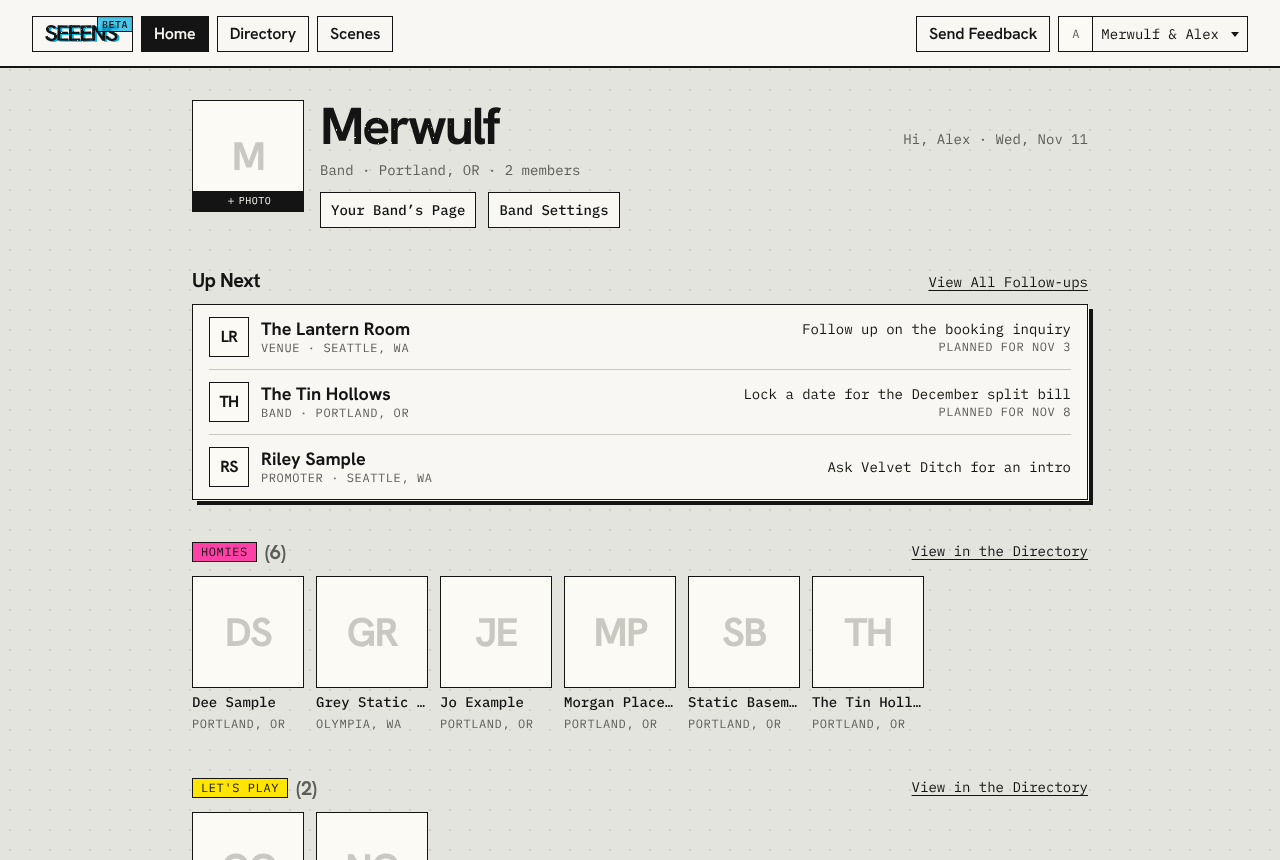
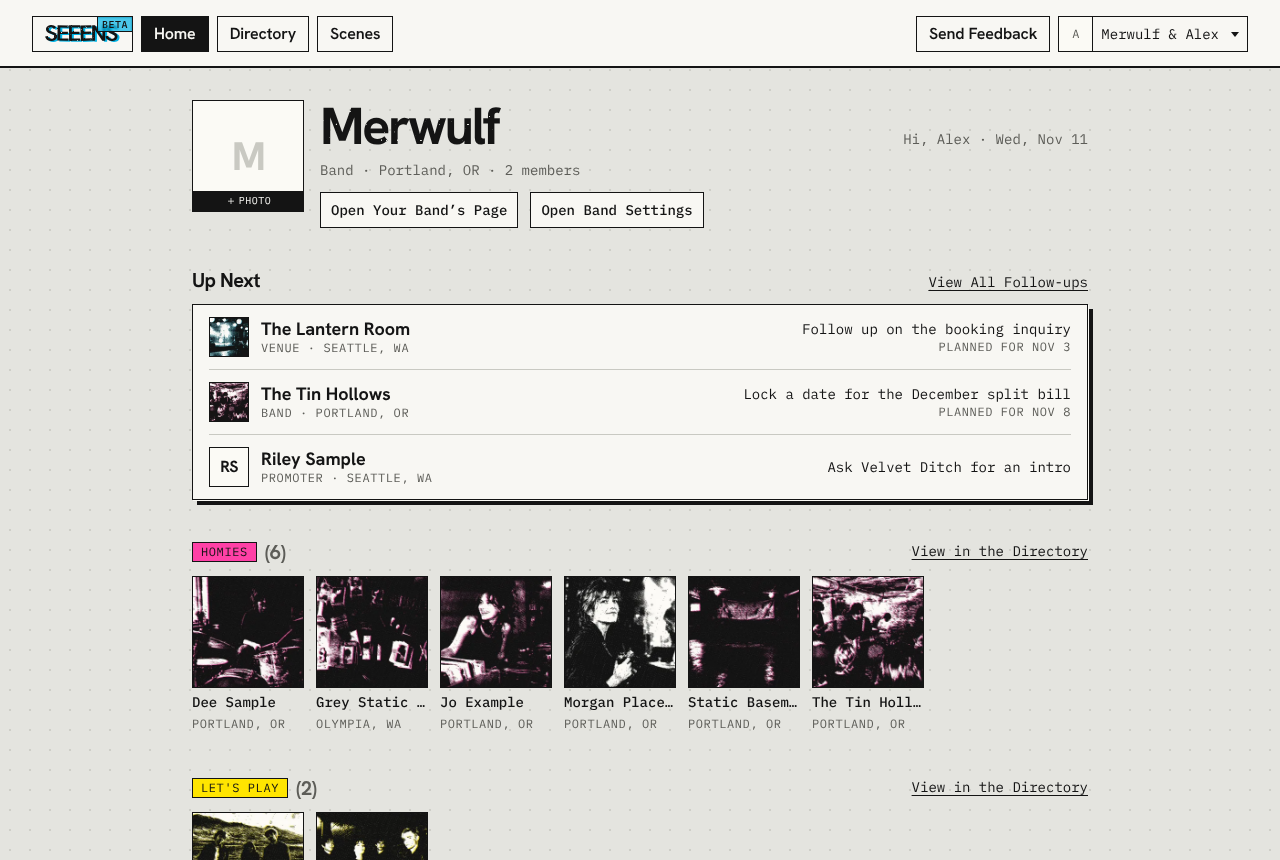
Calls to action lead with a verb
Buttons and action links that named a place now say what they do: Open
Band Settings, Open Your Band's Page, Add Scene, View Town Nicknames,
View on GitHub, Make a New Link, Browse the Directory, Shuffle Grain, and
on the public pages Read About Seeens, Read About AI, See What's New, and
See the Roadmap. A few labels move to title case (Back to the Directory,
Clear Filters, Remove Photo, Keep It, Restore to Directory). Links inside
sentences and the footer stay as they are. Screenshots retaken where the
labels show.

Claude-Session: https://claude.ai/code/session_01SMP6NnyPkRALtU7G1T7uNS

diff --git a/src/app/(app)/(directory)/directory-view.tsx b/src/app/(app)/(directory)/directory-view.tsx
@@ -164,7 +164,7 @@ async function Directory({ searchParams }: { searchParams: Promise<Params> }) {
             <p className="text-sm text-muted">
               Nothing archived.{" "}
               <Link href={directoryHref(tab, EMPTY)} className="link">
-                Back to the directory
+                Back to the Directory
               </Link>
             </p>
           ) : (
@@ -203,17 +203,17 @@ async function Directory({ searchParams }: { searchParams: Promise<Params> }) {
               </p>
               {filtering ? (
                 <Link href={directoryHref(tab, { ...EMPTY, archived })} className="link">
-                  Clear filters
+                  Clear Filters
                 </Link>
               ) : null}
               {after ? (
                 <Link href={directoryHref(tab, filters)} className="link">
-                  Back to the start
+                  Back to the Start
                 </Link>
               ) : null}
               {archived ? (
                 <Link href={directoryHref(tab, EMPTY)} className="link">
-                  Back to the directory
+                  Back to the Directory
                 </Link>
               ) : c.archived ? (
                 <Link href={directoryHref(tab, { ...EMPTY, archived: true })} className="link max-sm:hidden">

diff --git a/src/components/photo-copier.tsx b/src/components/photo-copier.tsx
@@ -507,7 +507,7 @@ function CopierBody({
               disabled={!source || !webgl}
               onClick={() => set("seed", (settings.seed + 1 + Math.floor(Math.random() * 997)) % 1000)}
             >
-              New Grain
+              Shuffle Grain
             </button>
             <button type="button" className="button-secondary" onClick={() => fileInput.current?.click()}>
               {source ? "Different Photo" : "Choose a Photo"}
@@ -571,12 +571,12 @@ function CopierBody({
                 Remove
               </button>
               <button type="button" className="action-link text-sm" onClick={() => setConfirmRemove(false)}>
-                Keep it
+                Keep It
               </button>
             </div>
           ) : (
             <button type="button" className="action-link text-sm" onClick={() => setConfirmRemove(true)}>
-              Remove photo
+              Remove Photo
             </button>
           )
         ) : null}

diff --git a/src/app/(app)/account/page.tsx b/src/app/(app)/account/page.tsx
@@ -125,7 +125,7 @@ async function Account({ searchParams }: { searchParams: PageProps<"/account">["
                   <div className="flex flex-wrap gap-3">
                     {b.workspace_id === membership?.workspaceId ? (
                       <Link href="/band" className="button-secondary">
-                        Band Settings<span className="sr-only"> for {band}</span>
+                        Open Band Settings<span className="sr-only"> for {band}</span>
                       </Link>
                     ) : null}
                     <LeaveBand workspaceId={b.workspace_id} name={band} />

diff --git a/src/components/home.tsx b/src/components/home.tsx
@@ -119,10 +119,10 @@ export async function HomeHeader() {
         <div className="flex flex-wrap gap-3 pt-1">
           {/* A full page load, like the account menu's link to it. */}
           <a href={us ? `/connections/${us.id}` : "/add?us=1"} className="button-secondary">
-            {us ? "Your Band’s Page" : "Add Your Band’s Page"}
+            {us ? "Open Your Band’s Page" : "Add Your Band’s Page"}
           </a>
           <Link href="/band" className="button-secondary">
-            Band Settings
+            Open Band Settings
           </Link>
         </div>
       </div>

diff --git a/src/app/(site)/about/page.tsx b/src/app/(site)/about/page.tsx
@@ -273,13 +273,13 @@ export default function AboutPage() {
             Sign In
           </Link>
           <Link href="/ai" className="button-secondary">
-            Seeens &amp; AI
+            Read About AI
           </Link>
           <Link href="/changelog" className="button-secondary">
-            What&rsquo;s New
+            See What&rsquo;s New
           </Link>
           <Link href="/roadmap" className="button-secondary">
-            Roadmap
+            See the Roadmap
           </Link>
         </footer>
       </div>

diff --git a/src/app/(app)/scenes/page.tsx b/src/app/(app)/scenes/page.tsx
@@ -18,10 +18,10 @@ export default function ScenesPage({ searchParams }: PageProps<"/scenes">) {
         <h1 className="display-l sm:display-xl">Scenes</h1>
         <div className="flex flex-wrap gap-3">
           <Link href="/scenes/nicknames" className="button-secondary">
-            Town Nicknames
+            View Town Nicknames
           </Link>
           <Link href="/scenes/new" className="button-primary">
-            New Scene
+            Add Scene
           </Link>
         </div>
       </div>

diff --git a/src/app/(app)/admin/bands/invite-band-form.tsx b/src/app/(app)/admin/bands/invite-band-form.tsx
@@ -170,7 +170,7 @@ export function NewLinkButton({ id, band }: { id: string; band: string }) {
         disabled={pending}
         onClick={() => start(async () => setState(await renewBandInvite(id).catch(unreachable)))}
       >
-        New Link<span className="sr-only"> for {band}</span>
+        Make a New Link<span className="sr-only"> for {band}</span>
       </button>
       <Note state={state} />
       {state.link ? <LinkBox key={state.link} link={state.link} /> : null}

diff --git a/src/app/(app)/feedback/page.tsx b/src/app/(app)/feedback/page.tsx
@@ -71,7 +71,7 @@ async function Feedback({ searchParams }: { searchParams: PageProps<"/feedback">
                   {kindLabel(f.kind)} · {formatDate(f.created_at, membership.timeZone)}
                   {f.github_url ? (
                     <a href={f.github_url} className="link" target="_blank" rel="noopener noreferrer">
-                      On GitHub
+                      View on GitHub
                     </a>
                   ) : null}
                 </p>

diff --git a/src/app/(site)/changelog/page.tsx b/src/app/(site)/changelog/page.tsx
@@ -60,10 +60,10 @@ export default async function ChangelogPage() {
 
         <footer className="flex flex-wrap gap-3">
           <Link href="/about" className="button-secondary">
-            About Seeens
+            Read About Seeens
           </Link>
           <Link href="/roadmap" className="button-secondary">
-            Roadmap
+            See the Roadmap
           </Link>
           <Link href="/" className="button-primary">
             Open Seeens

diff --git a/src/app/(site)/roadmap/page.tsx b/src/app/(site)/roadmap/page.tsx
@@ -91,10 +91,10 @@ export default async function RoadmapPage() {
 
         <footer className="flex flex-wrap gap-3">
           <Link href="/about" className="button-secondary">
-            About Seeens
+            Read About Seeens
           </Link>
           <Link href="/changelog" className="button-secondary">
-            What&rsquo;s New
+            See What&rsquo;s New
           </Link>
         </footer>
       </div>

diff --git a/src/components/getting-started.tsx b/src/components/getting-started.tsx
@@ -75,7 +75,7 @@ export async function GettingStarted({ preview: asked = false }: { preview?: boo
       links: [
         {
           href: "/directory",
-          label: suggested?.length ? "More in the Directory" : "Open the Directory",
+          label: suggested?.length ? "Browse the Directory" : "Open the Directory",
         },
         { href: "/add", label: "Add Your Own" },
       ],

diff --git a/src/components/band-settings.tsx b/src/components/band-settings.tsx
@@ -323,7 +323,7 @@ export function PendingInviteActions({ id, hasEmail, label }: { id: string; hasE
           disabled={pending}
           onClick={() => run(() => renewInviteLink(id))}
         >
-          New Link<span className="sr-only"> for {label}</span>
+          Make a New Link<span className="sr-only"> for {label}</span>
         </button>
         <button
           type="button"
